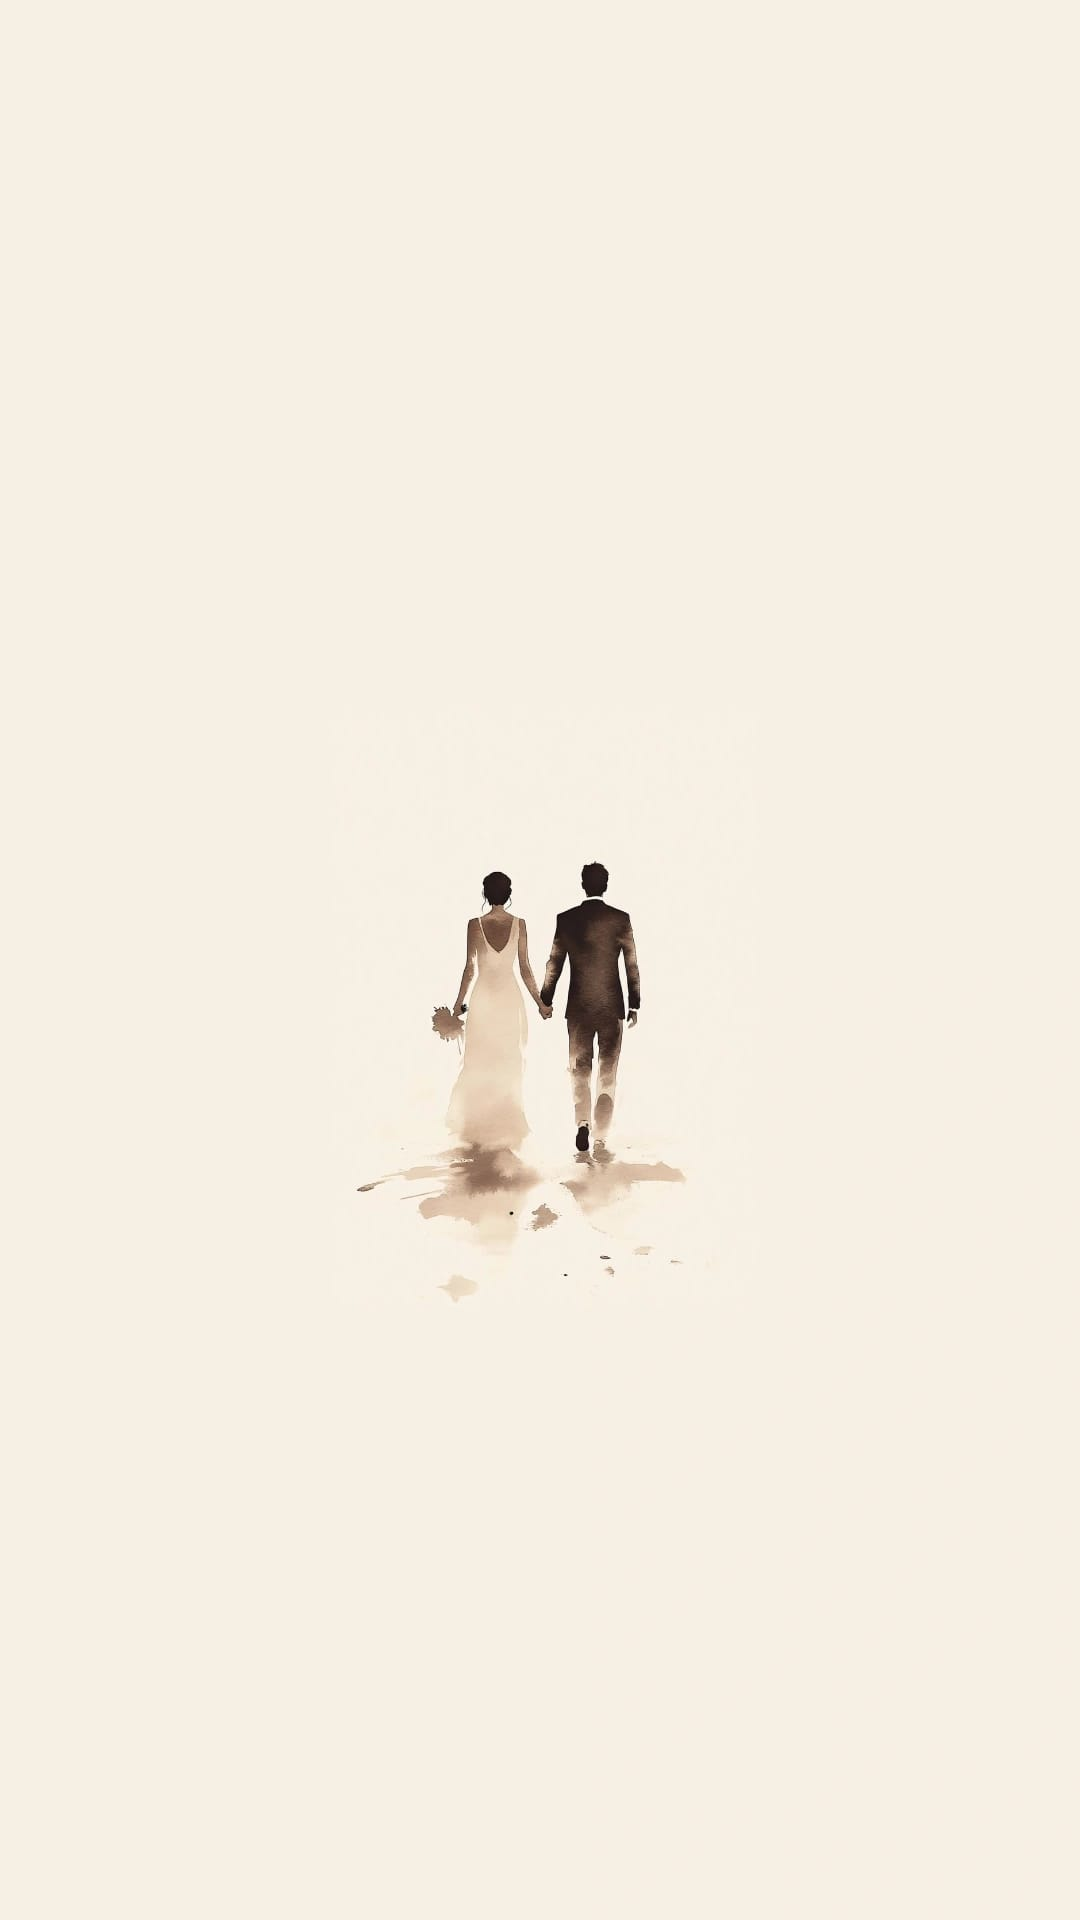
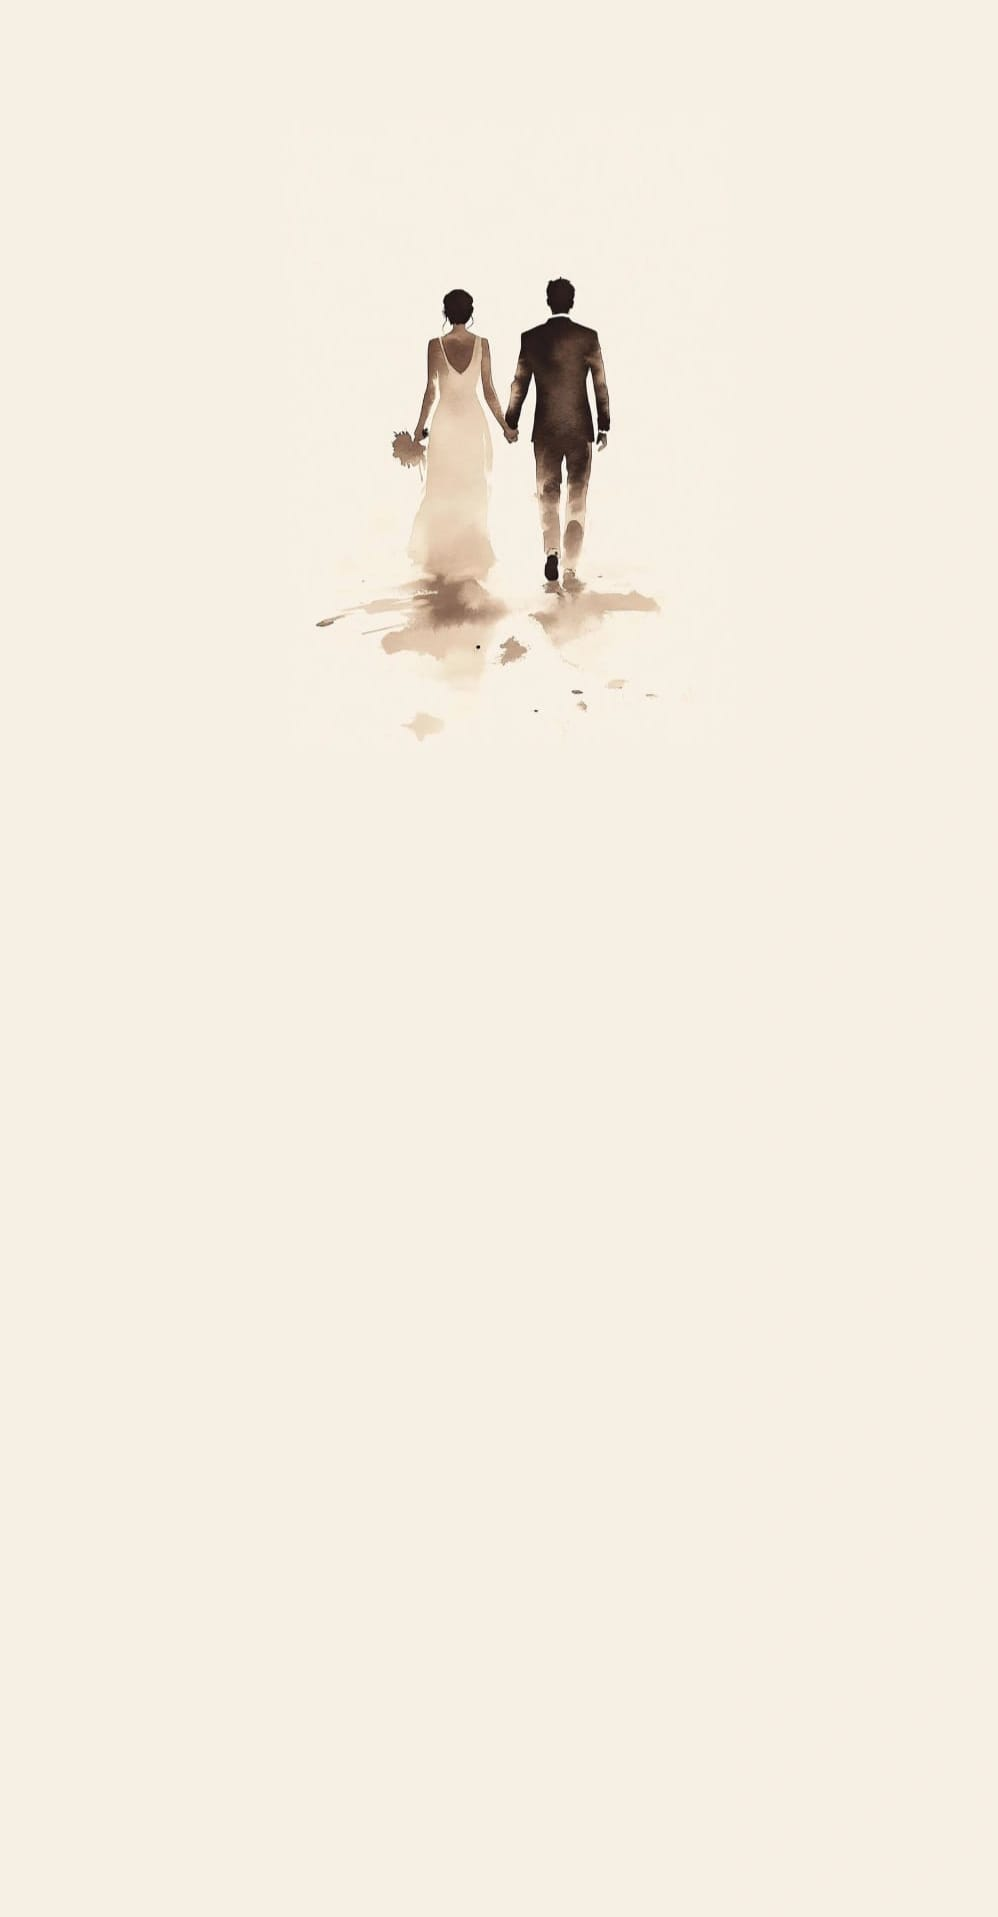
Reducing background image size

Changed region(s): [[0.3727, 0.1231, 0.6523, 0.3693], [0.3727, 0.4309, 0.6212, 0.6771], [0.4038, 0.3693, 0.4349, 0.4001]]

diff --git a/styles.css b/styles.css
@@ -22,7 +22,7 @@ body {
   flex-direction : column;
   align-items    : center;
   justify-content: center;
-  background     : url('./assets/background-picture.jpg') center 69% fixed;
+  background     : url('./assets/background-picture.jpg') center 21% fixed;
 }
 
 .container .header {
@@ -283,19 +283,16 @@ input[type="file"]::file-selector-button:active {
 @media only screen and (max-width: 550px) {
 
   .container {
-    background: url('./assets/background-picture.jpg') center 67% fixed no-repeat;
+    background: url('./assets/background-picture.jpg') center 21% fixed no-repeat;
+    background-size: 100%;
   }
 
   .container .header {
-    margin-top      : 70%;
+    margin-top      : 40%;
     padding         : 10px 10px;
-    /* Add padding for spacing */
     border-radius   : 5px;
-    /* Optional     : Add rounded corners */
-    /* margin-bottom: 20px; */
     width           : 85%;
   }
-
 
   .container h2 {
     font-size: 16px;
